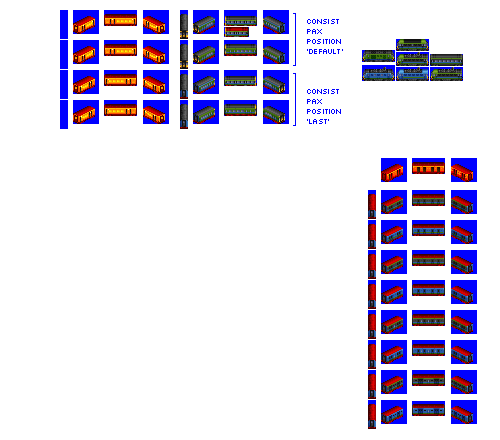
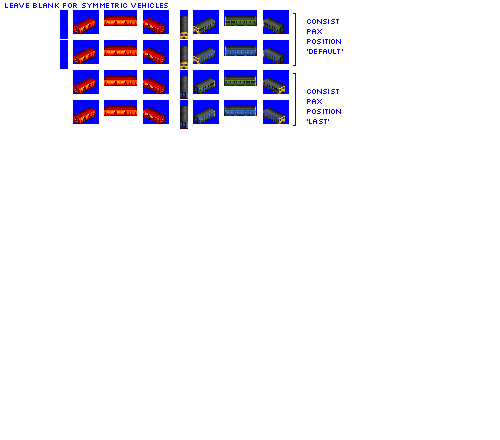
Change: sprites complete for pony NG gen 4 driving cab

diff --git a/src/vehicles/pony/driving_cab_passenger_ng_pony_gen_4.py b/src/vehicles/pony/driving_cab_passenger_ng_pony_gen_4.py
@@ -11,14 +11,14 @@ def main(roster_id, **kwargs):
         base_track_type_name="NG",
         gen=4,
         extended_vehicle_life=True,  # extended vehicle life for all this generation of NG eh
-        sprites_complete=False,
+        sprites_complete=True,
     )
 
     consist.add_unit(type=CabControlPaxCarUnit, weight=32, chassis="4_axle_ng_32px")
 
-    consist.description = """"""
+    consist.description = """Now, a driving cab for the smaller trains. But not for goats."""
     consist.foamer_facts = (
-        """KIWI DRIVING CAB"""
+        """KiwiRail SRV driving cab conversion of British Rail MK2 carriage"""
     )
 
     return consist
